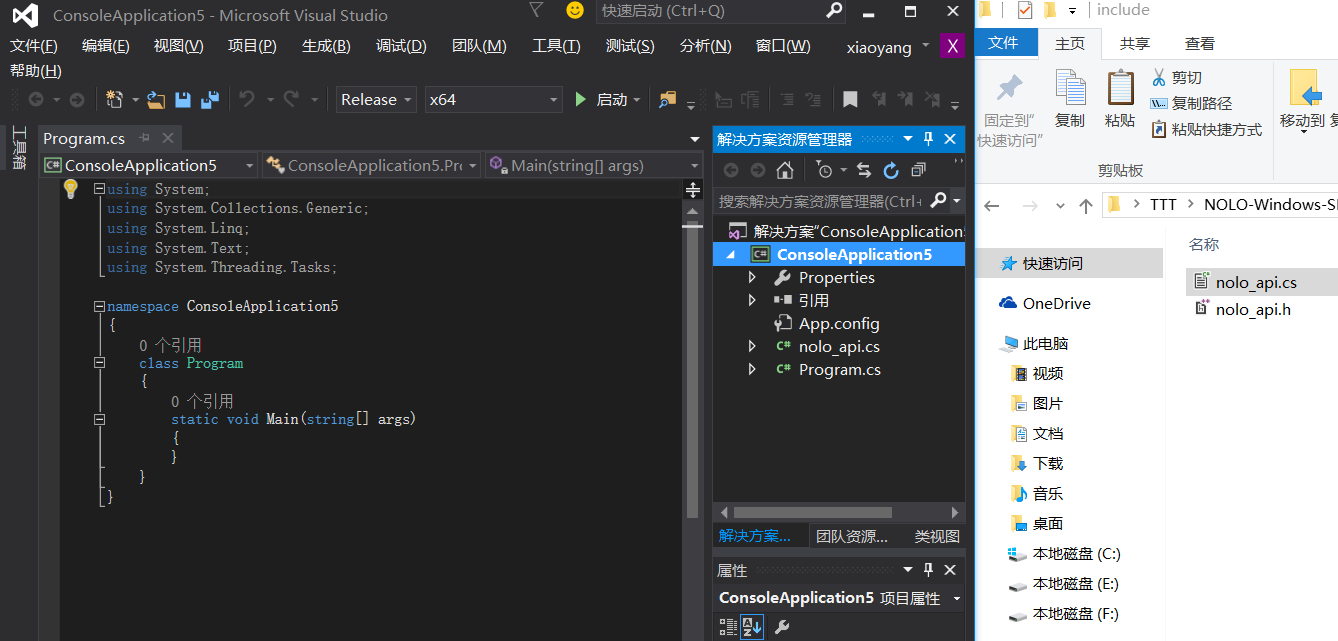
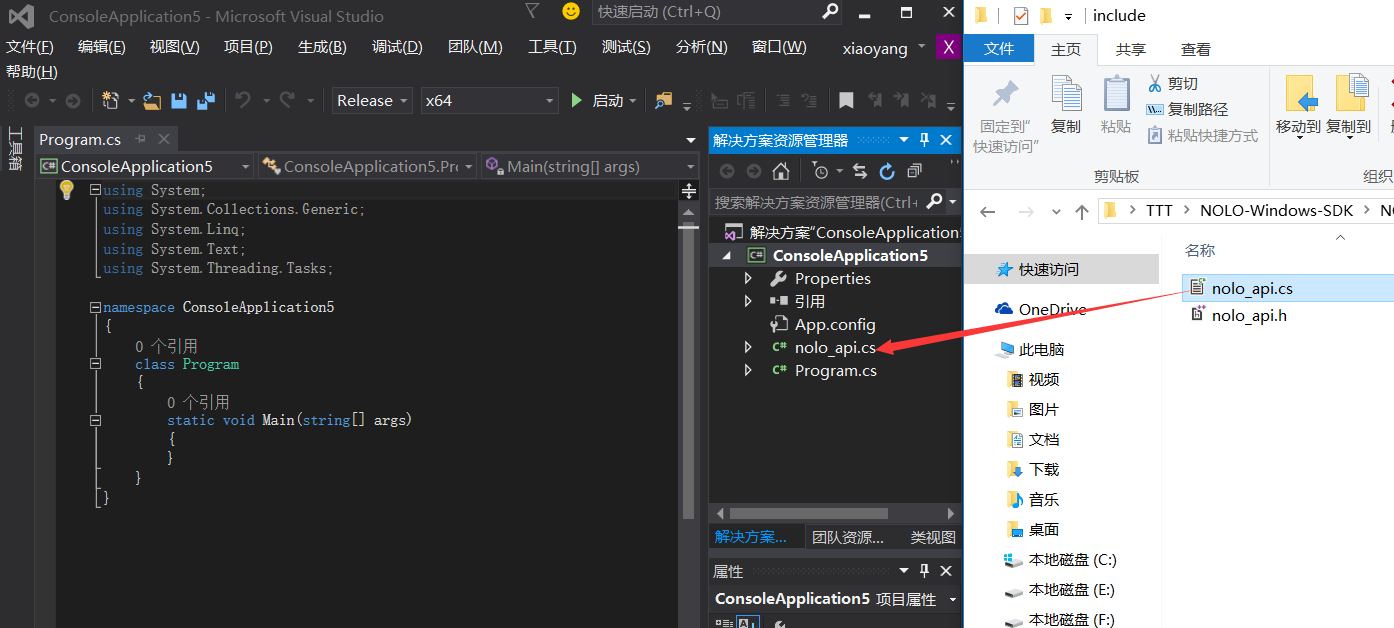
update

diff --git a/README_CN.md b/README_CN.md
@@ -20,7 +20,7 @@ NOLO Windows SDK
         noloRuntime.dll依赖libzmq.dll   
         <div><img width=400 heigh=200 src="https://github.com/LYRobotix/NOLO-Windows-SDK/blob/master/Examples/picture/7.jpg"></div>
         4:引用链接#pragma comment(lib,"noloRuntime.lib文件路径").  
-        
+
         5:注册回调函数,开启客户端.  
         
         ```
@@ -37,12 +37,16 @@ NOLO Windows SDK
         <div><img width=400 heigh=200 src="https://github.com/LYRobotix/NOLO-Windows-SDK/blob/master/Examples/picture/8.jpg"></div>
     * :C#工程(VS开发工具)  
         1:新建VS C#工程.  
+        <div><img width=400 heigh=200 src="https://github.com/LYRobotix/NOLO-Windows-SDK/blob/master/Examples/picture/9.jpg"></div>
         2:复制NOLOVR/include/nolo_api.cs文件到工程中.  
+        <div><img width=400 heigh=200 src="https://github.com/LYRobotix/NOLO-Windows-SDK/blob/master/Examples/picture/10.jpg"></div>
         3:在NOLOVR/bin中选择需要的dll复制到您的工程目录下.  
         V140对应VS2015的运行环境  
         V120对应VS2013的运行环境  
         V110对应Vs2012的运行环境  
         noloRuntime.dll依赖libzmq.dll   
+        <div><img width=400 heigh=200 src="https://github.com/LYRobotix/NOLO-Windows-SDK/blob/master/Examples/picture/11.jpg"></div>
+
         4:注册回调函数，开启客户端  
         ```
         NOLOClient_V1_API.connectSuccess_FunCallBack(connectFunc);
@@ -54,7 +58,8 @@ NOLO Windows SDK
         6:退出程序时，关闭客户端  
         ```
         NOLOClient_V1_API.close_Nolo_ZeroMQ();
-        ```
+        ```  
+        <div><img width=400 heigh=200 src="https://github.com/LYRobotix/NOLO-Windows-SDK/blob/master/Examples/picture/12.jpg"></div>
 
         
 - [接口说明](https://github.com/LYRobotix/NOLO-Windows-SDK/wiki)
